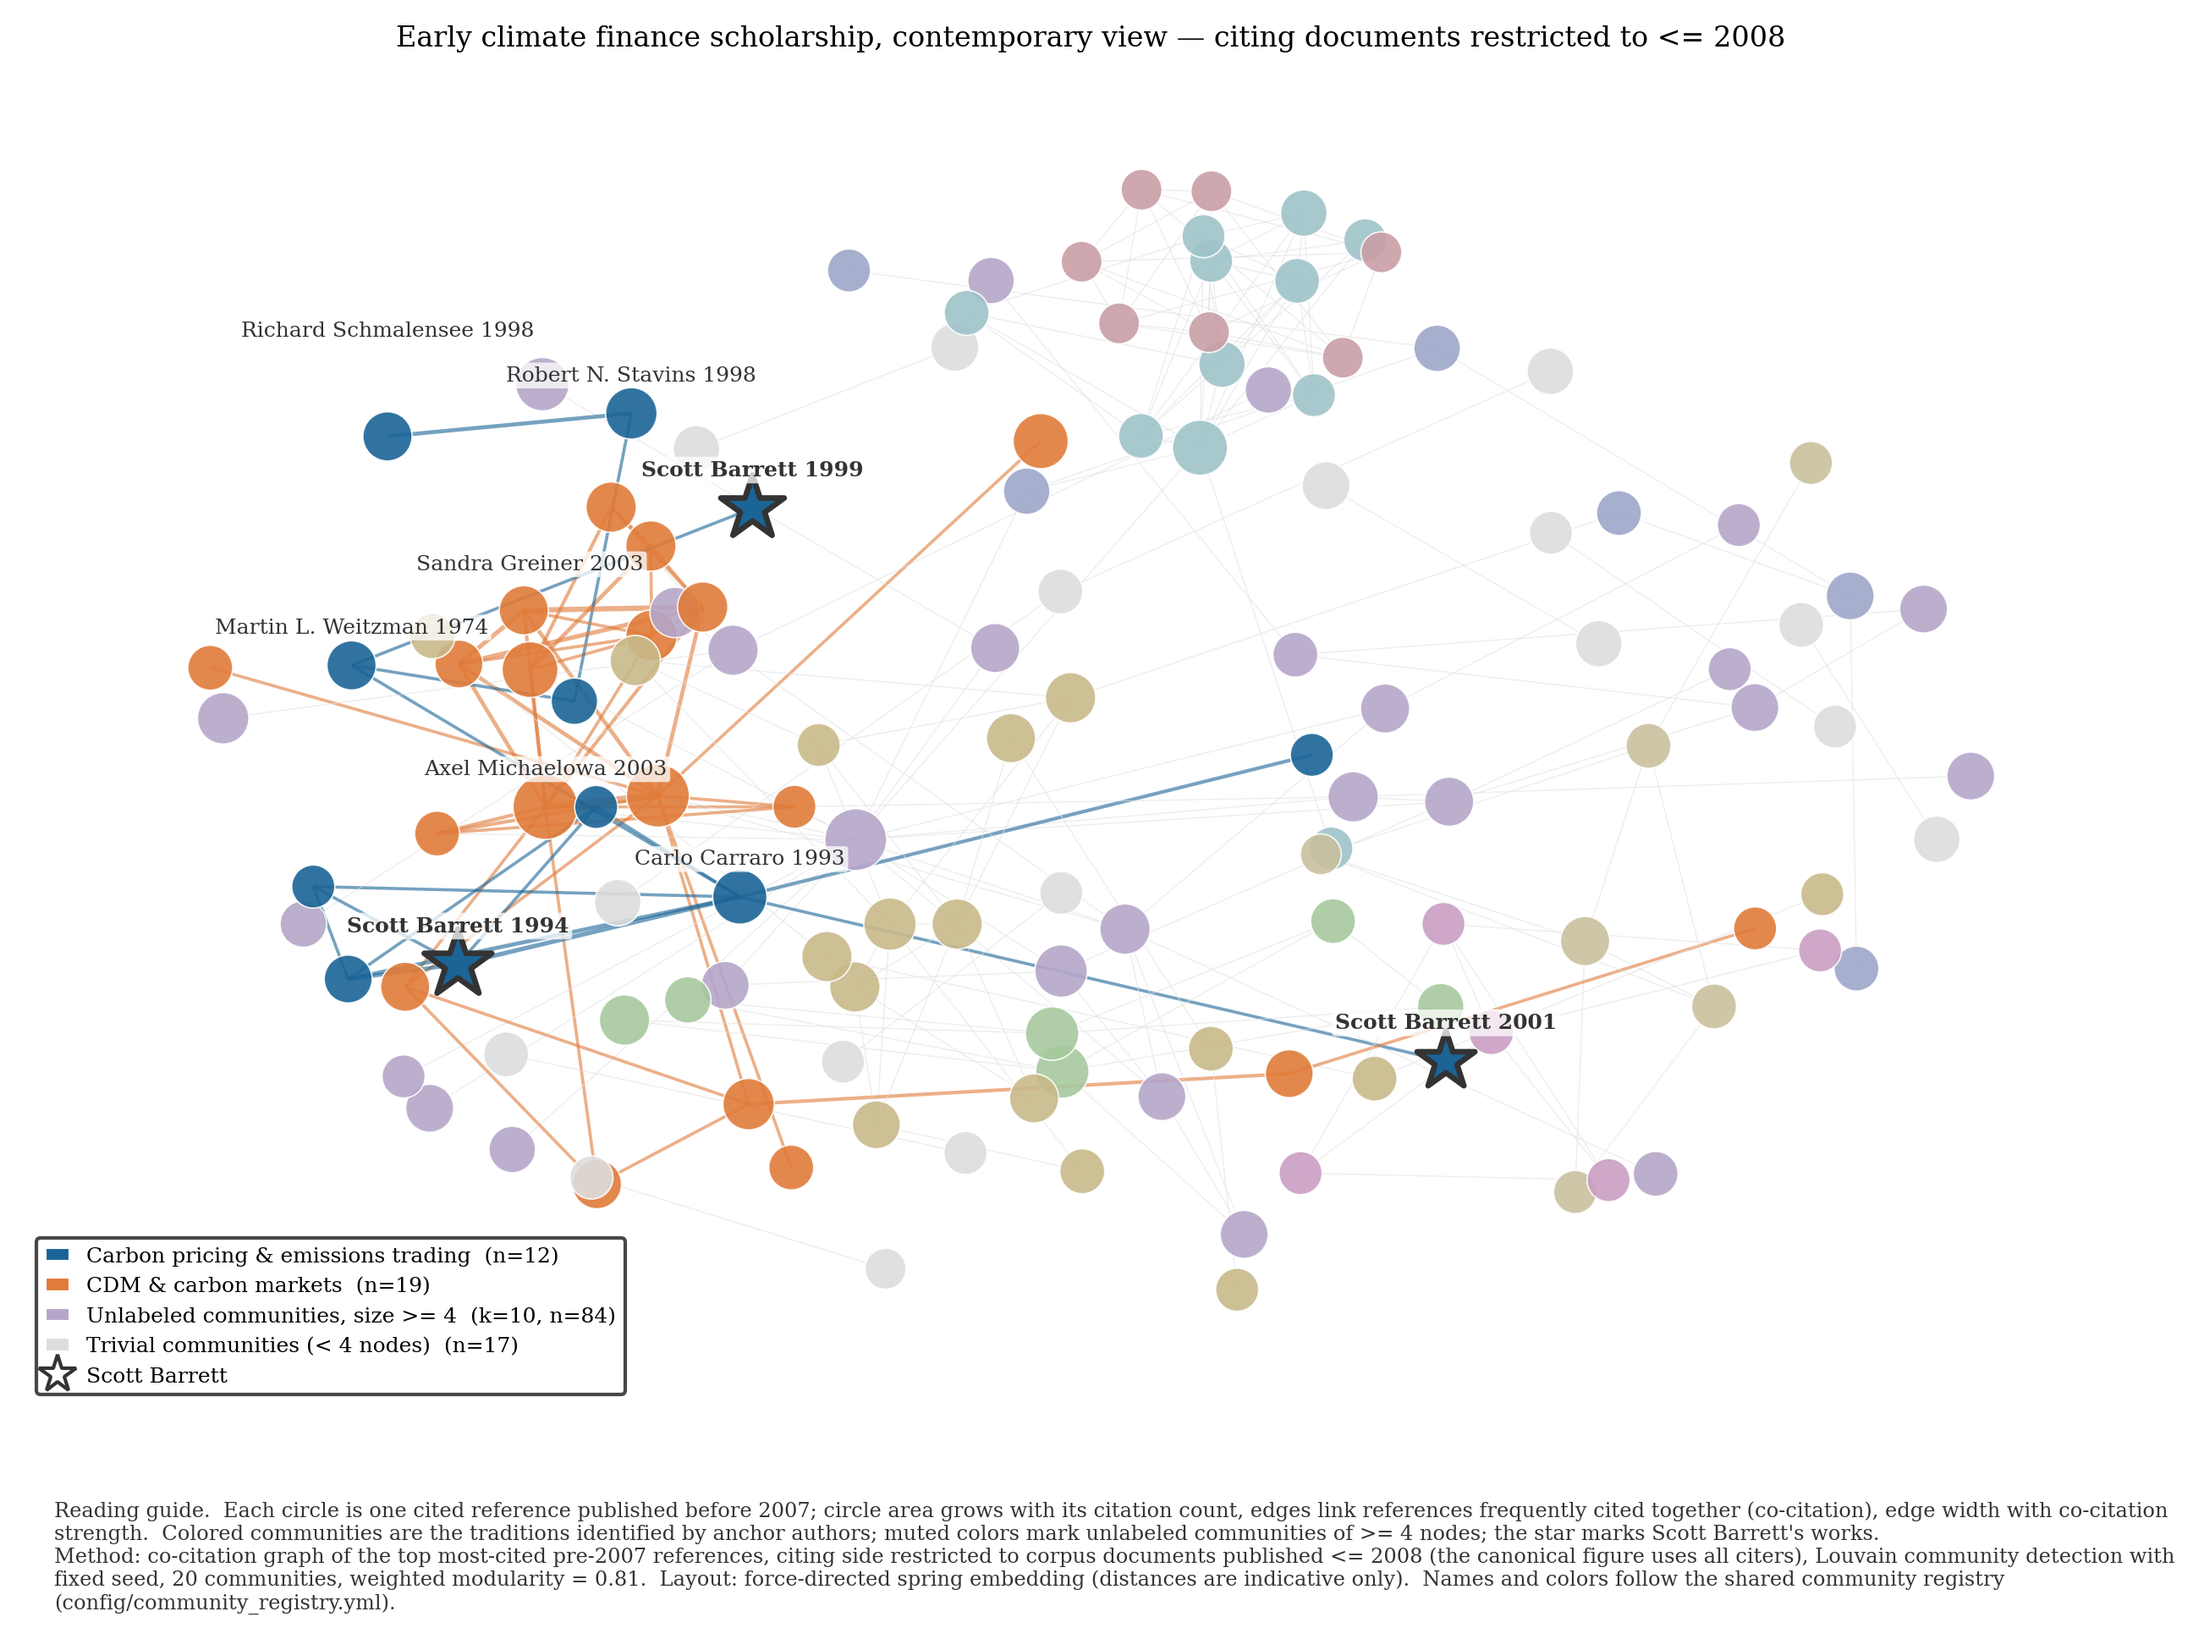
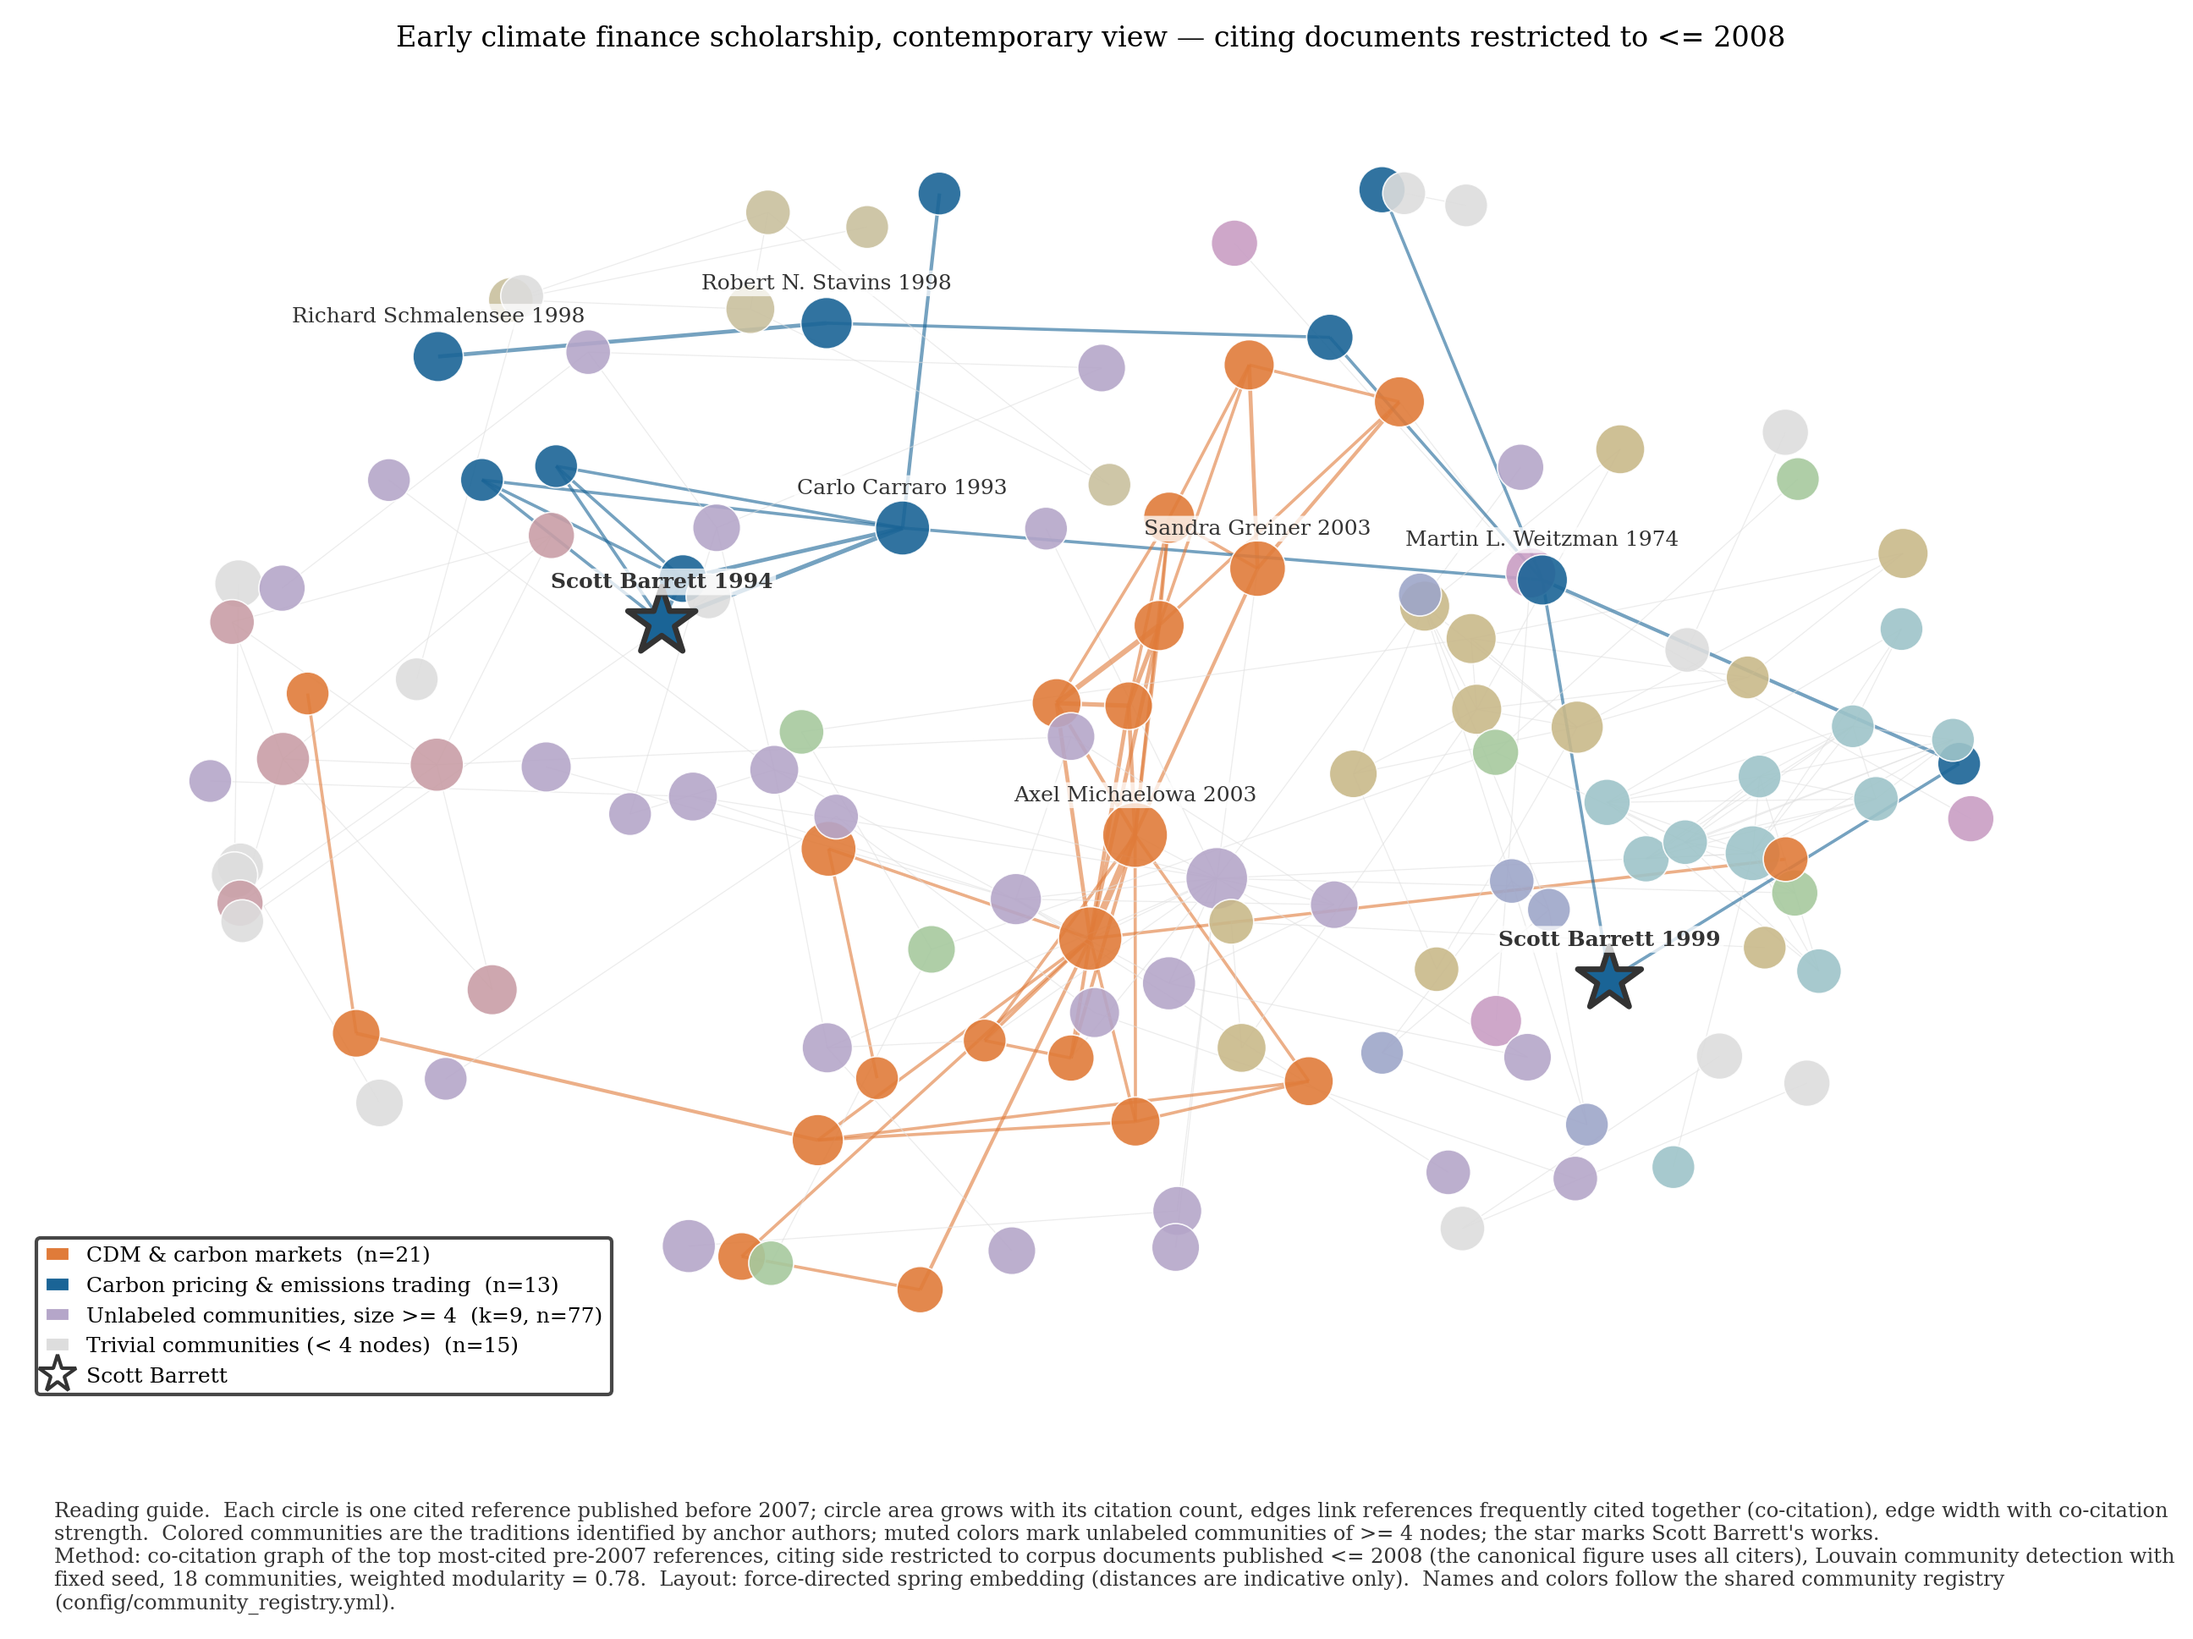
data(0610): regenerate the three tracked artifacts — drift is corpus, not ordering
Rebuilt from a corpus-present worktree (`make data`, DVC checkout of the
`dvc.lock` on main). All three diffs are substantive, and none of them is
caused by the 0591 producer change the ticket assumed.

Cause, established rather than presumed. Running the *pre-0591* producers
(`709d0318:scripts/figures/...`) against the current corpus reproduces the new
artifacts byte-for-byte — venue table and figure both — and the pre-0591
`export_tab_venues.py` is also stable across PYTHONHASHSEED 0/1/12345 on this
data. So the ordering fix is a no-op here: no tie is live in the current
corpus, and 0591 remains a latent-risk fix rather than a behaviour change.
What actually moved is the upstream data. `analyze_bimodality.py`, which
assigns the poles, was untouched by 0591 and is itself deterministic and
seed-independent (two rebuilds, one under PYTHONHASHSEED=1, byte-identical).
The committed copies simply predate the corpus that `dvc.lock` now pins.

Per-artifact characterisation:

- `tab_venues.md` — SUBSTANTIVE, journal set changed. CIFOR eBooks (12/12)
  leaves the table; Nature Climate Change moves Accountability → Shared
  (12/18 → 13/17). Per-journal totals are unchanged for every surviving row
  (RSER 41, Sustainability 108, Energy Policy 69, Climate Policy 58, NCC 30);
  only the efficiency/accountability split moves, by one or two papers. The
  pole assignment shifted for a handful of works, not the corpus composition.
[…]

diff --git a/deliverables/_shared/tables/tab_venues.md b/deliverables/_shared/tables/tab_venues.md
@@ -1,17 +1,16 @@
 | Lean | Journal | Eff. | Acc. | Total |
 |:-----|:--------|-----:|-----:|------:|
 | Efficiency | Energy Economics | 16 | 2 | 18 |
+| Efficiency | Renewable and Sustainable Energy Reviews | 32 | 9 | 41 |
 | Efficiency | Journal of Cleaner Production | 30 | 10 | 40 |
-| Efficiency | Renewable and Sustainable Energy Reviews | 30 | 11 | 41 |
-| Efficiency | Energy Policy | 48 | 21 | 69 |
-| Efficiency | Sustainability | 73 | 35 | 108 |
+| Efficiency | Sustainability | 74 | 34 | 108 |
+| Efficiency | Energy Policy | 47 | 22 | 69 |
 | Efficiency | Energies | 27 | 16 | 43 |
-| Shared | Center for International Forestry Research (CIFOR) eBooks | 12 | 12 | 24 |
 | Shared | Ecology and Society | 16 | 18 | 34 |
-| Accountability | Nature Climate Change | 12 | 18 | 30 |
+| Shared | Nature Climate Change | 13 | 17 | 30 |
 | Accountability | Nature Communications | 13 | 22 | 35 |
+| Accountability | Climate Policy | 21 | 37 | 58 |
 | Accountability | Climatic Change | 15 | 28 | 43 |
-| Accountability | Climate Policy | 20 | 38 | 58 |
 | Accountability | PLoS ONE | 11 | 22 | 33 |
 | Accountability | International Environmental Agreements Politics Law and Economics | 7 | 16 | 23 |
 | Accountability | Wiley Interdisciplinary Reviews Climate Change | 7 | 28 | 35 |

diff --git a/deliverables/_shared/tables/tab_venues_fr.md b/deliverables/_shared/tables/tab_venues_fr.md
@@ -1,17 +1,16 @@
 | Lean | Journal | Eff. | Acc. | Total |
 |:-----|:--------|-----:|-----:|------:|
 | Efficiency | Energy Economics | 16 | 2 | 18 |
+| Efficiency | Renewable and Sustainable Energy Reviews | 32 | 9 | 41 |
 | Efficiency | Journal of Cleaner Production | 30 | 10 | 40 |
-| Efficiency | Renewable and Sustainable Energy Reviews | 30 | 11 | 41 |
-| Efficiency | Energy Policy | 48 | 21 | 69 |
-| Efficiency | Sustainability | 73 | 35 | 108 |
+| Efficiency | Sustainability | 74 | 34 | 108 |
+| Efficiency | Energy Policy | 47 | 22 | 69 |
 | Efficiency | Energies | 27 | 16 | 43 |
-| Shared | Center for International Forestry Research (CIFOR) eBooks | 12 | 12 | 24 |
 | Shared | Ecology and Society | 16 | 18 | 34 |
-| Accountability | Nature Climate Change | 12 | 18 | 30 |
+| Shared | Nature Climate Change | 13 | 17 | 30 |
 | Accountability | Nature Communications | 13 | 22 | 35 |
+| Accountability | Climate Policy | 21 | 37 | 58 |
 | Accountability | Climatic Change | 15 | 28 | 43 |
-| Accountability | Climate Policy | 20 | 38 | 58 |
 | Accountability | PLoS ONE | 11 | 22 | 33 |
 | Accountability | International Environmental Agreements Politics Law and Economics | 7 | 16 | 23 |
 | Accountability | Wiley Interdisciplinary Reviews Climate Change | 7 | 28 | 35 |
